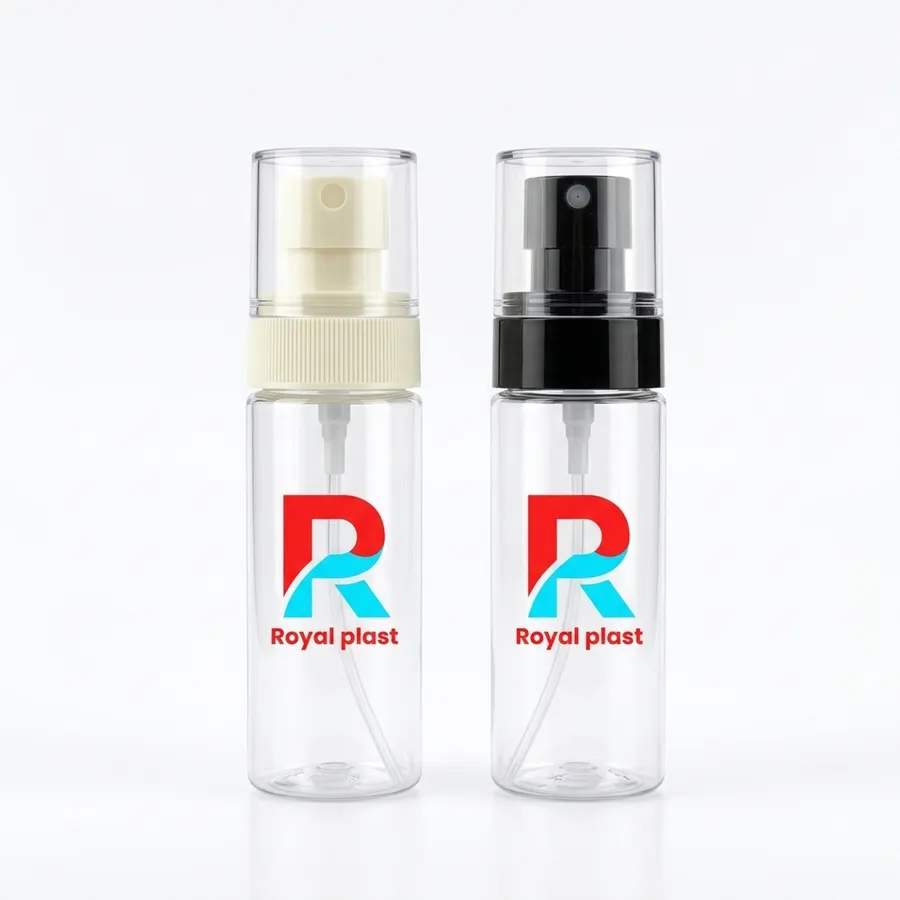
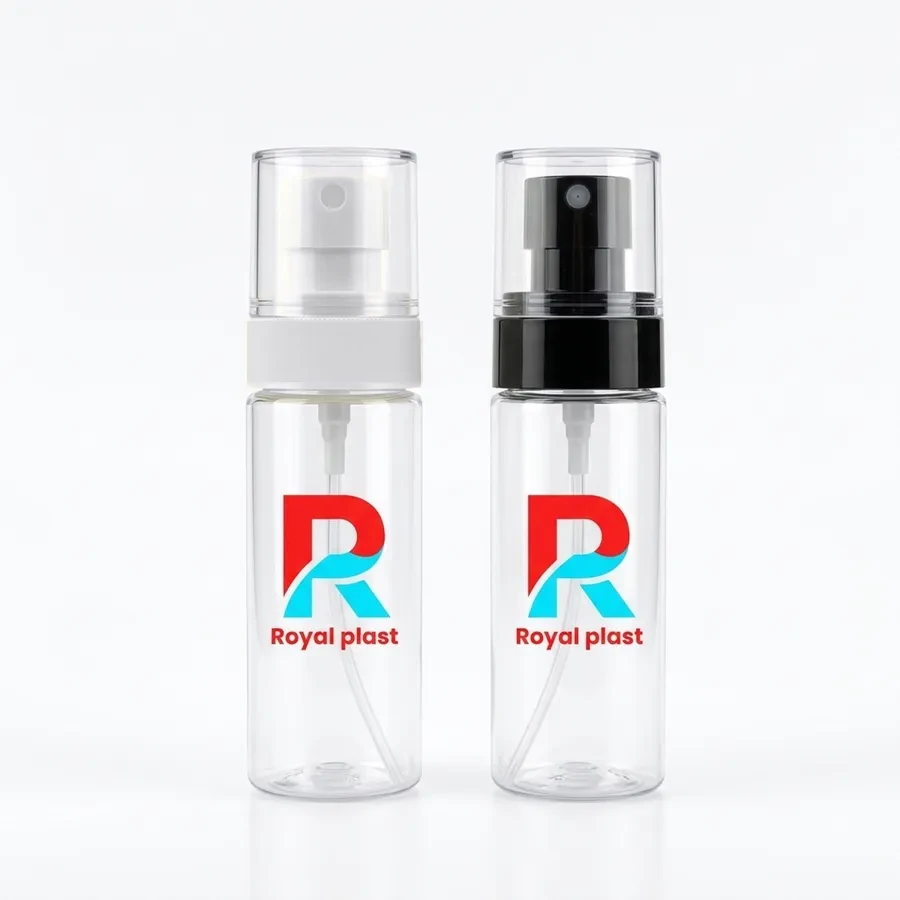
RP-214: white smooth cap on left bottle
Claude-Session: https://claude.ai/code/session_01RHpAwk7S9yFShcnyhoKaQD

Changed region(s): [[0.3111, 0.1867, 0.4356, 0.4356]]

diff --git a/app.js b/app.js
@@ -55,7 +55,7 @@ function fullTitle(p){return `${t(p.cat=='jar'?'jar':'bottle')} ${sizesTxt(p)}`.
 function sub(p){if(p.nospec)return t('nospec');const a=[];if(p.necks.length)a.push(p.necks.map(n=>'NK'+n).join(' / '));p.caps.forEach(c=>a.push(capName(c)));p.extra.forEach(e=>a.push(lang=='ar'?e.ar:e.en));return a.join(' · ')}
 const colTxt=p=>p.colors.map(c=>t(c)).join('، ').replace(/،/g,lang=='ar'?'، ':', ');
 const dotsHTML=p=>`<span class="dots">${p.colors.map(c=>`<i class="dot d-${c}" title="${t(c)}"></i>`).join('')}</span>`;
-const IMGV='20261111i';const imgU=n=>`img/${n}.webp?v=${IMGV}`,thU=n=>`t/${n}.webp?v=${IMGV}`;
+const IMGV='20261111j';const imgU=n=>`img/${n}.webp?v=${IMGV}`,thU=n=>`t/${n}.webp?v=${IMGV}`;
 function reveal(root){const io=new IntersectionObserver(es=>es.forEach(e=>{if(e.isIntersecting){e.target.classList.add('in');io.unobserve(e.target)}}),{threshold:.12,rootMargin:'0px 0px -40px 0px'});
  (root||document).querySelectorAll('.rv:not(.in)').forEach(el=>io.observe(el))}
 function applyLang(){document.documentElement.lang=lang;document.documentElement.dir=lang=='ar'?'rtl':'ltr';

diff --git a/index.html b/index.html
@@ -11,7 +11,7 @@
 <link rel="icon" href="assets/favicon.png">
 <link rel="preconnect" href="https://fonts.googleapis.com"><link rel="preconnect" href="https://fonts.gstatic.com" crossorigin>
 <link href="https://fonts.googleapis.com/css2?family=Poppins:wght@400;600;700;800;900&display=swap" rel="stylesheet">
-<link rel="stylesheet" href="style.css?v=20261111i">
+<link rel="stylesheet" href="style.css?v=20261111j">
 <script>try{var t=localStorage.getItem('rp_theme');if(t)document.documentElement.dataset.theme=t;}catch(e){}</script>
 </head>
 <body>
@@ -104,5 +104,5 @@
 </div></div>
 
 <script src="https://cdnjs.cloudflare.com/ajax/libs/qrcode-generator/1.4.4/qrcode.min.js"></script>
-<script src="app.js?v=20261111i"></script>
+<script src="app.js?v=20261111j"></script>
 </body></html>
